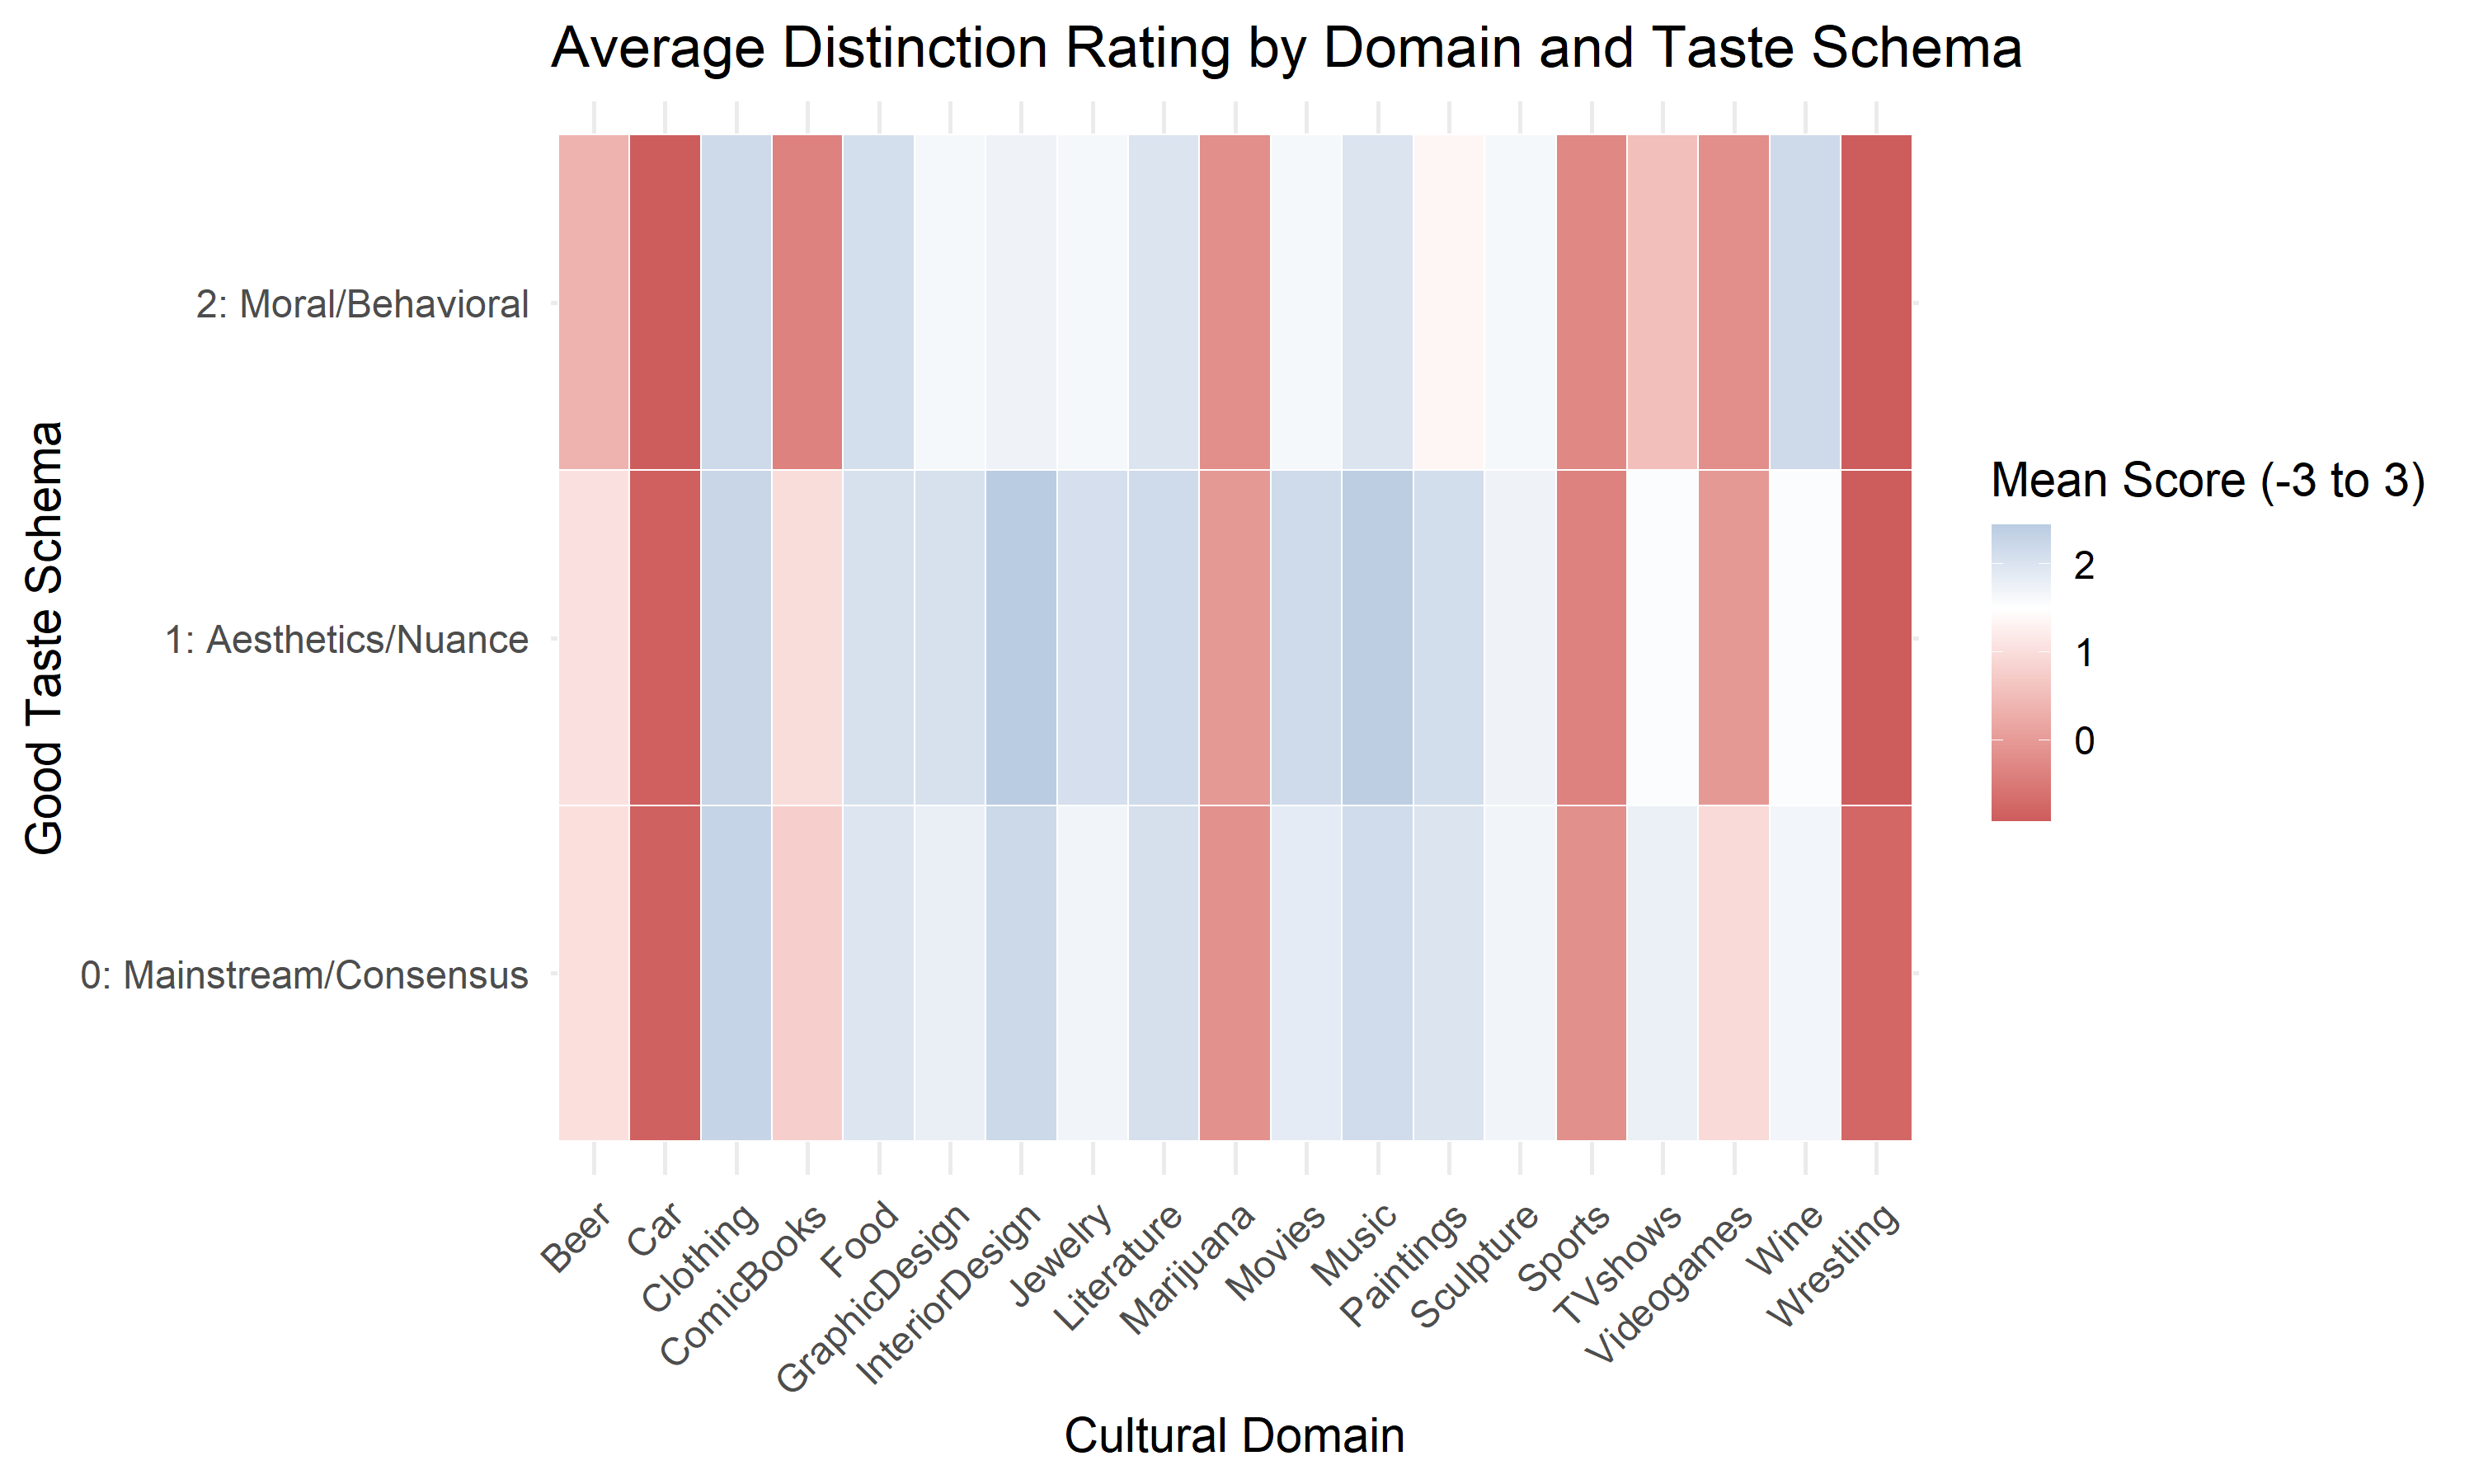
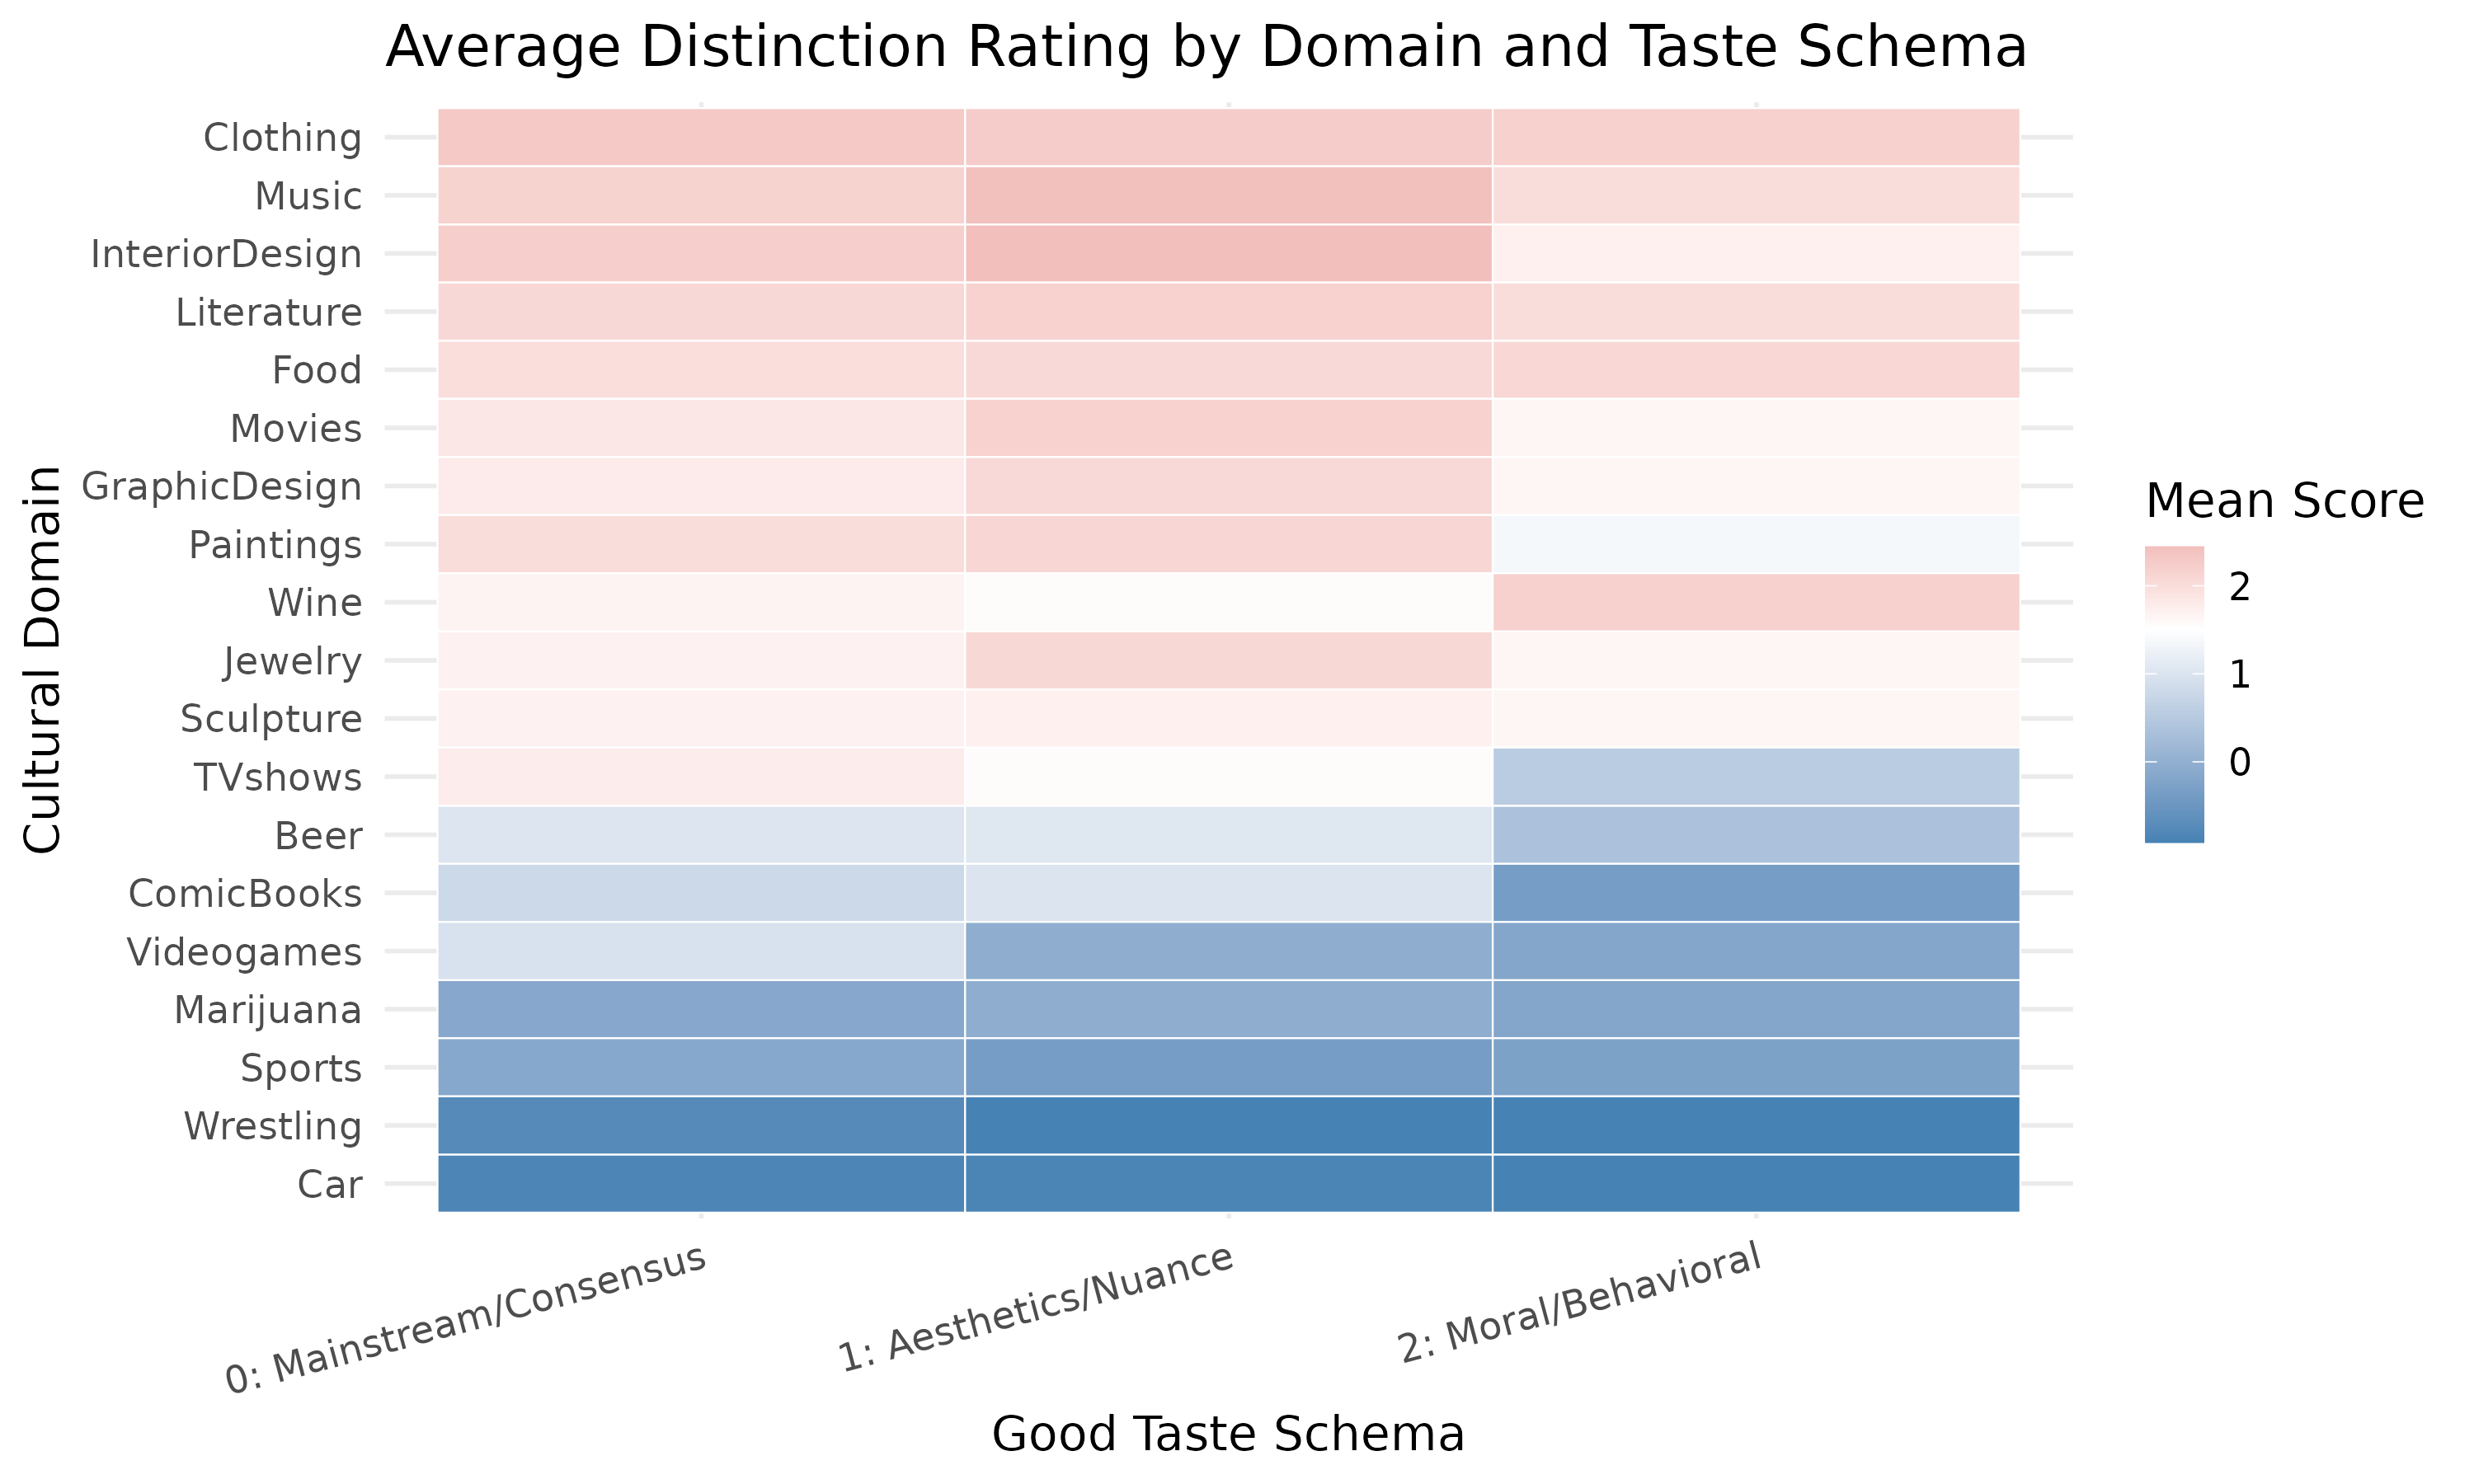
Update heatmap coordinates and color schemes, fix subtitle

diff --git a/report/bertopic_analysis.html b/report/bertopic_analysis.html
@@ -176,7 +176,7 @@ Attaching package: 'dplyr'</code></pre>
 </section>
 <section id="topic-modeling-results" class="level1">
 <h1>Topic modeling results</h1>
-<p>The short texts defining “Good Taste” and “Bad Taste” were clustered into 5 broad themes each using BERTopic. We load the summarized results from those models.</p>
+<p>The short texts defining “Good Taste” and “Bad Taste” were clustered into 3 broad themes each using BERTopic. We load the summarized results from those models.</p>
 <div class="cell">
 <div class="code-copy-outer-scaffold"><div class="sourceCode cell-code" id="cb6"><pre class="sourceCode r code-with-copy"><code class="sourceCode r"><span id="cb6-1"><a href="#cb6-1" aria-hidden="true" tabindex="-1"></a><span class="co"># Load the pre-computed topic info tables</span></span>
 <span id="cb6-2"><a href="#cb6-2" aria-hidden="true" tabindex="-1"></a>good_topic_info <span class="ot">&lt;-</span> <span class="fu">read_csv</span>(<span class="st">"../good_taste_model_min10/topic_info.csv"</span>, <span class="at">show_col_types =</span> <span class="cn">FALSE</span>)</span>
@@ -797,7 +797,7 @@ Attaching package: 'dplyr'</code></pre>
 <span id="cb28-13"><a href="#cb28-13" aria-hidden="true" tabindex="-1"></a>  <span class="fu">theme</span>(<span class="at">axis.text.x =</span> <span class="fu">element_text</span>(<span class="at">angle =</span> <span class="dv">15</span>, <span class="at">hjust =</span> <span class="dv">1</span>)) <span class="sc">+</span></span>
 <span id="cb28-14"><a href="#cb28-14" aria-hidden="true" tabindex="-1"></a>  <span class="fu">labs</span>(</span>
 <span id="cb28-15"><a href="#cb28-15" aria-hidden="true" tabindex="-1"></a>    <span class="at">title =</span> <span class="st">"Pearson Residuals of Schema Correlation"</span>,</span>
-<span id="cb28-16"><a href="#cb28-16" aria-hidden="true" tabindex="-1"></a>    <span class="at">subtitle =</span> <span class="st">"Positive values (blue) indicate schema combinations that occur more often than expected by chance."</span>,</span>
+<span id="cb28-16"><a href="#cb28-16" aria-hidden="true" tabindex="-1"></a>    <span class="at">subtitle =</span> <span class="st">"Positive values (blue) indicate schema combinations that</span><span class="sc">\n</span><span class="st">occur more often than expected by chance."</span>,</span>
 <span id="cb28-17"><a href="#cb28-17" aria-hidden="true" tabindex="-1"></a>    <span class="at">x =</span> <span class="st">"Good Taste Schema"</span>,</span>
 <span id="cb28-18"><a href="#cb28-18" aria-hidden="true" tabindex="-1"></a>    <span class="at">y =</span> <span class="st">"Bad Taste Schema"</span>,</span>
 <span id="cb28-19"><a href="#cb28-19" aria-hidden="true" tabindex="-1"></a>    <span class="at">fill =</span> <span class="st">"Residual"</span></span>
@@ -837,20 +837,30 @@ Attaching package: 'dplyr'</code></pre>
 <span id="cb30-15"><a href="#cb30-15" aria-hidden="true" tabindex="-1"></a>  <span class="fu">group_by</span>(GoodTasteTopic, Domain) <span class="sc">%&gt;%</span></span>
 <span id="cb30-16"><a href="#cb30-16" aria-hidden="true" tabindex="-1"></a>  <span class="fu">summarize</span>(<span class="at">Mean_Score =</span> <span class="fu">mean</span>(Score, <span class="at">na.rm =</span> <span class="cn">TRUE</span>), <span class="at">.groups =</span> <span class="st">'drop'</span>)</span>
 <span id="cb30-17"><a href="#cb30-17" aria-hidden="true" tabindex="-1"></a></span>
-<span id="cb30-18"><a href="#cb30-18" aria-hidden="true" tabindex="-1"></a><span class="co"># Plot as a heatmap</span></span>
-<span id="cb30-19"><a href="#cb30-19" aria-hidden="true" tabindex="-1"></a>p_dist <span class="ot">&lt;-</span> <span class="fu">ggplot</span>(distinction_means, <span class="fu">aes</span>(<span class="at">x =</span> Domain, <span class="at">y =</span> GoodTasteTopic, <span class="at">fill =</span> Mean_Score)) <span class="sc">+</span></span>
-<span id="cb30-20"><a href="#cb30-20" aria-hidden="true" tabindex="-1"></a>  <span class="fu">geom_tile</span>(<span class="at">color =</span> <span class="st">"white"</span>) <span class="sc">+</span></span>
-<span id="cb30-21"><a href="#cb30-21" aria-hidden="true" tabindex="-1"></a>  <span class="fu">scale_fill_gradient2</span>(<span class="at">low =</span> <span class="st">"indianred"</span>, <span class="at">mid =</span> <span class="st">"white"</span>, <span class="at">high =</span> <span class="st">"steelblue"</span>, <span class="at">midpoint =</span> <span class="fl">1.5</span>) <span class="sc">+</span></span>
-<span id="cb30-22"><a href="#cb30-22" aria-hidden="true" tabindex="-1"></a>  <span class="fu">theme_minimal</span>(<span class="at">base_size =</span> <span class="dv">14</span>) <span class="sc">+</span></span>
-<span id="cb30-23"><a href="#cb30-23" aria-hidden="true" tabindex="-1"></a>  <span class="fu">theme</span>(<span class="at">axis.text.x =</span> <span class="fu">element_text</span>(<span class="at">angle =</span> <span class="dv">45</span>, <span class="at">hjust =</span> <span class="dv">1</span>)) <span class="sc">+</span></span>
-<span id="cb30-24"><a href="#cb30-24" aria-hidden="true" tabindex="-1"></a>  <span class="fu">labs</span>(</span>
-<span id="cb30-25"><a href="#cb30-25" aria-hidden="true" tabindex="-1"></a>    <span class="at">title =</span> <span class="st">"Average Distinction Rating by Domain and Taste Schema"</span>,</span>
-<span id="cb30-26"><a href="#cb30-26" aria-hidden="true" tabindex="-1"></a>    <span class="at">x =</span> <span class="st">"Cultural Domain"</span>,</span>
-<span id="cb30-27"><a href="#cb30-27" aria-hidden="true" tabindex="-1"></a>    <span class="at">y =</span> <span class="st">"Good Taste Schema"</span>,</span>
-<span id="cb30-28"><a href="#cb30-28" aria-hidden="true" tabindex="-1"></a>    <span class="at">fill =</span> <span class="st">"Mean Score (-3 to 3)"</span></span>
-<span id="cb30-29"><a href="#cb30-29" aria-hidden="true" tabindex="-1"></a>  )</span>
-<span id="cb30-30"><a href="#cb30-30" aria-hidden="true" tabindex="-1"></a></span>
-<span id="cb30-31"><a href="#cb30-31" aria-hidden="true" tabindex="-1"></a><span class="fu">print</span>(p_dist)</span></code></pre></div><button title="Copy to Clipboard" class="code-copy-button"><i class="bi"></i></button></div>
+<span id="cb30-18"><a href="#cb30-18" aria-hidden="true" tabindex="-1"></a><span class="co"># Order domains by overall mean rating</span></span>
+<span id="cb30-19"><a href="#cb30-19" aria-hidden="true" tabindex="-1"></a>domain_order <span class="ot">&lt;-</span> distinction_means <span class="sc">%&gt;%</span></span>
+<span id="cb30-20"><a href="#cb30-20" aria-hidden="true" tabindex="-1"></a>  <span class="fu">group_by</span>(Domain) <span class="sc">%&gt;%</span></span>
+<span id="cb30-21"><a href="#cb30-21" aria-hidden="true" tabindex="-1"></a>  <span class="fu">summarize</span>(<span class="at">Overall =</span> <span class="fu">mean</span>(Mean_Score)) <span class="sc">%&gt;%</span></span>
+<span id="cb30-22"><a href="#cb30-22" aria-hidden="true" tabindex="-1"></a>  <span class="fu">arrange</span>(Overall) <span class="sc">%&gt;%</span></span>
+<span id="cb30-23"><a href="#cb30-23" aria-hidden="true" tabindex="-1"></a>  <span class="fu">pull</span>(Domain)</span>
+<span id="cb30-24"><a href="#cb30-24" aria-hidden="true" tabindex="-1"></a></span>
+<span id="cb30-25"><a href="#cb30-25" aria-hidden="true" tabindex="-1"></a>distinction_means <span class="ot">&lt;-</span> distinction_means <span class="sc">%&gt;%</span></span>
+<span id="cb30-26"><a href="#cb30-26" aria-hidden="true" tabindex="-1"></a>  <span class="fu">mutate</span>(<span class="at">Domain =</span> <span class="fu">factor</span>(Domain, <span class="at">levels =</span> domain_order))</span>
+<span id="cb30-27"><a href="#cb30-27" aria-hidden="true" tabindex="-1"></a></span>
+<span id="cb30-28"><a href="#cb30-28" aria-hidden="true" tabindex="-1"></a><span class="co"># Plot as a heatmap</span></span>
+<span id="cb30-29"><a href="#cb30-29" aria-hidden="true" tabindex="-1"></a>p_dist <span class="ot">&lt;-</span> <span class="fu">ggplot</span>(distinction_means, <span class="fu">aes</span>(<span class="at">x =</span> GoodTasteTopic, <span class="at">y =</span> Domain, <span class="at">fill =</span> Mean_Score)) <span class="sc">+</span></span>
+<span id="cb30-30"><a href="#cb30-30" aria-hidden="true" tabindex="-1"></a>  <span class="fu">geom_tile</span>(<span class="at">color =</span> <span class="st">"white"</span>) <span class="sc">+</span></span>
+<span id="cb30-31"><a href="#cb30-31" aria-hidden="true" tabindex="-1"></a>  <span class="fu">scale_fill_gradient2</span>(<span class="at">low =</span> <span class="st">"steelblue"</span>, <span class="at">mid =</span> <span class="st">"white"</span>, <span class="at">high =</span> <span class="st">"indianred"</span>, <span class="at">midpoint =</span> <span class="fl">1.5</span>) <span class="sc">+</span></span>
+<span id="cb30-32"><a href="#cb30-32" aria-hidden="true" tabindex="-1"></a>  <span class="fu">theme_minimal</span>(<span class="at">base_size =</span> <span class="dv">14</span>) <span class="sc">+</span></span>
+<span id="cb30-33"><a href="#cb30-33" aria-hidden="true" tabindex="-1"></a>  <span class="fu">theme</span>(<span class="at">axis.text.x =</span> <span class="fu">element_text</span>(<span class="at">angle =</span> <span class="dv">15</span>, <span class="at">hjust =</span> <span class="dv">1</span>)) <span class="sc">+</span></span>
+<span id="cb30-34"><a href="#cb30-34" aria-hidden="true" tabindex="-1"></a>  <span class="fu">labs</span>(</span>
+<span id="cb30-35"><a href="#cb30-35" aria-hidden="true" tabindex="-1"></a>    <span class="at">title =</span> <span class="st">"Average Distinction Rating by Domain and Taste Schema"</span>,</span>
+<span id="cb30-36"><a href="#cb30-36" aria-hidden="true" tabindex="-1"></a>    <span class="at">x =</span> <span class="st">"Good Taste Schema"</span>,</span>
+<span id="cb30-37"><a href="#cb30-37" aria-hidden="true" tabindex="-1"></a>    <span class="at">y =</span> <span class="st">"Cultural Domain"</span>,</span>
+<span id="cb30-38"><a href="#cb30-38" aria-hidden="true" tabindex="-1"></a>    <span class="at">fill =</span> <span class="st">"Mean Score"</span></span>
+<span id="cb30-39"><a href="#cb30-39" aria-hidden="true" tabindex="-1"></a>  )</span>
+<span id="cb30-40"><a href="#cb30-40" aria-hidden="true" tabindex="-1"></a></span>
+<span id="cb30-41"><a href="#cb30-41" aria-hidden="true" tabindex="-1"></a><span class="fu">print</span>(p_dist)</span></code></pre></div><button title="Copy to Clipboard" class="code-copy-button"><i class="bi"></i></button></div>
 <div class="cell-output-display">
 <div>
 <figure class="figure">